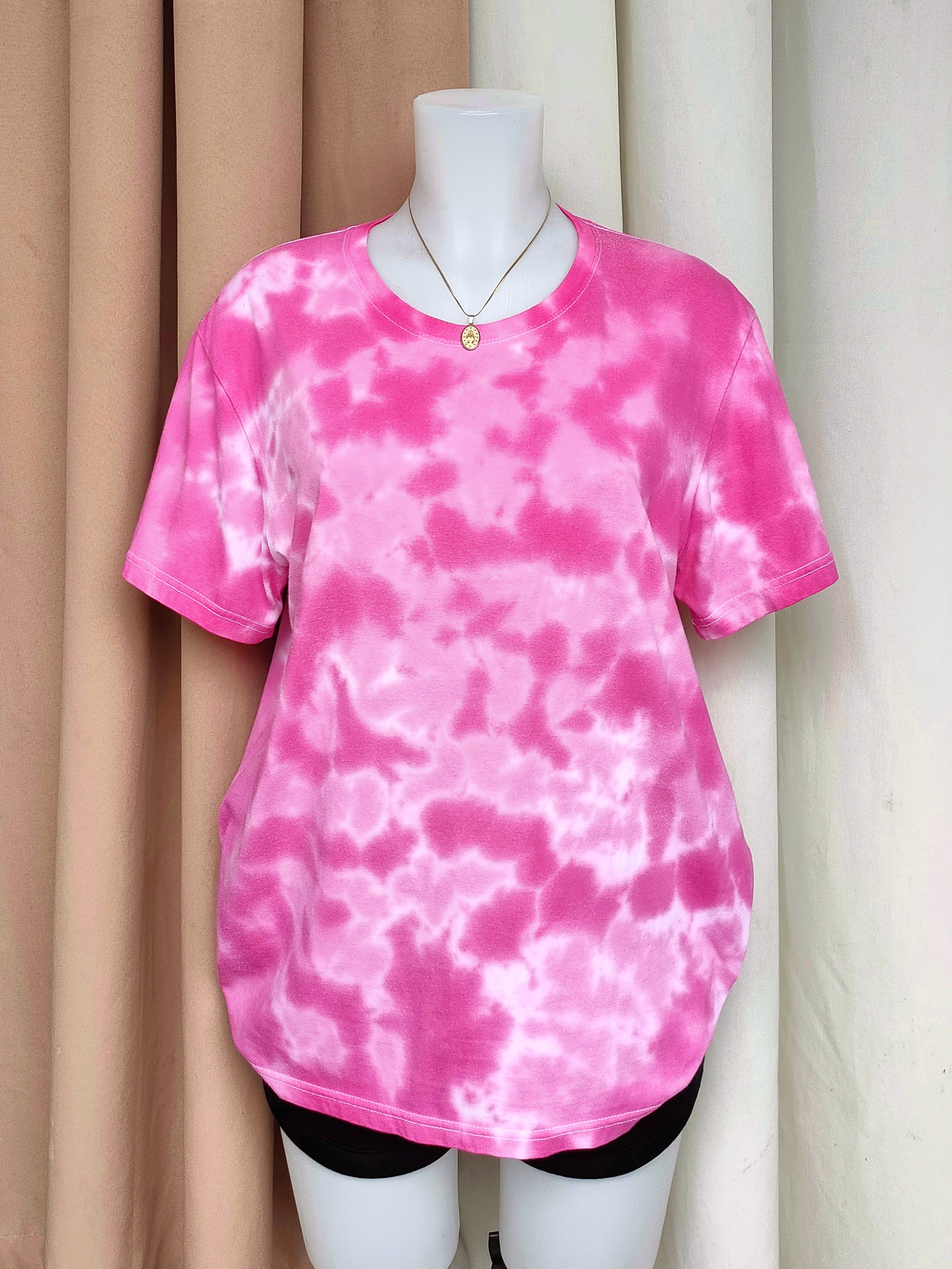
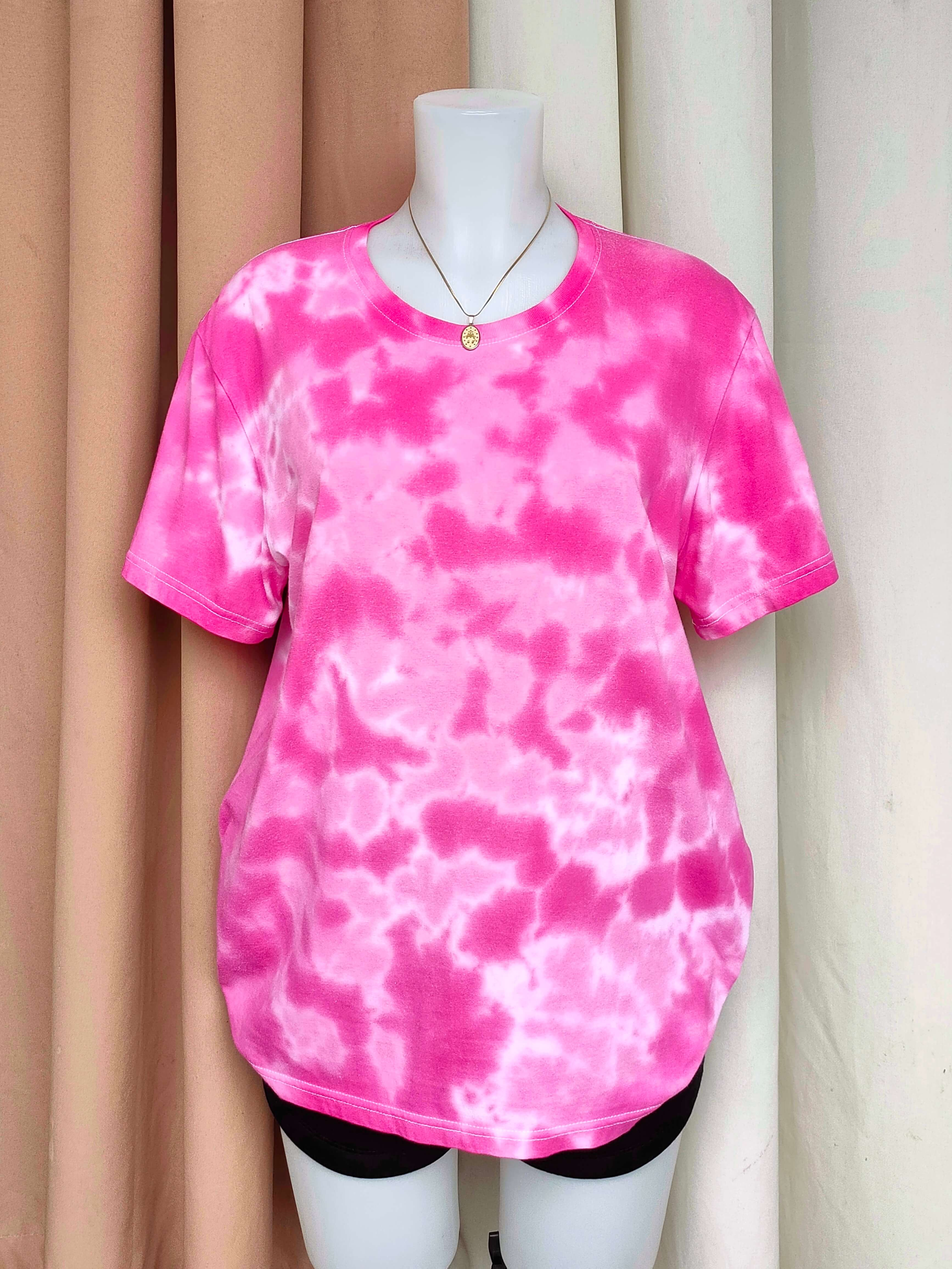
optimized images

diff --git a/src/components/header.jsx b/src/components/header.jsx
@@ -1,7 +1,7 @@
 import React, { useContext, useState } from "react";
 import { BiSearch } from "react-icons/bi";
 import { Link, useLocation, NavLink } from "react-router-dom";
-import logo from "../assets/images/apneck.png";
+import logo from "../assets/images/sheout.png";
 import { AiOutlineUser, AiOutlineShoppingCart} from "react-icons/ai";
 import { ShopContext } from "./shopcontext";
 import compare from "../assets/images/compare.svg";
